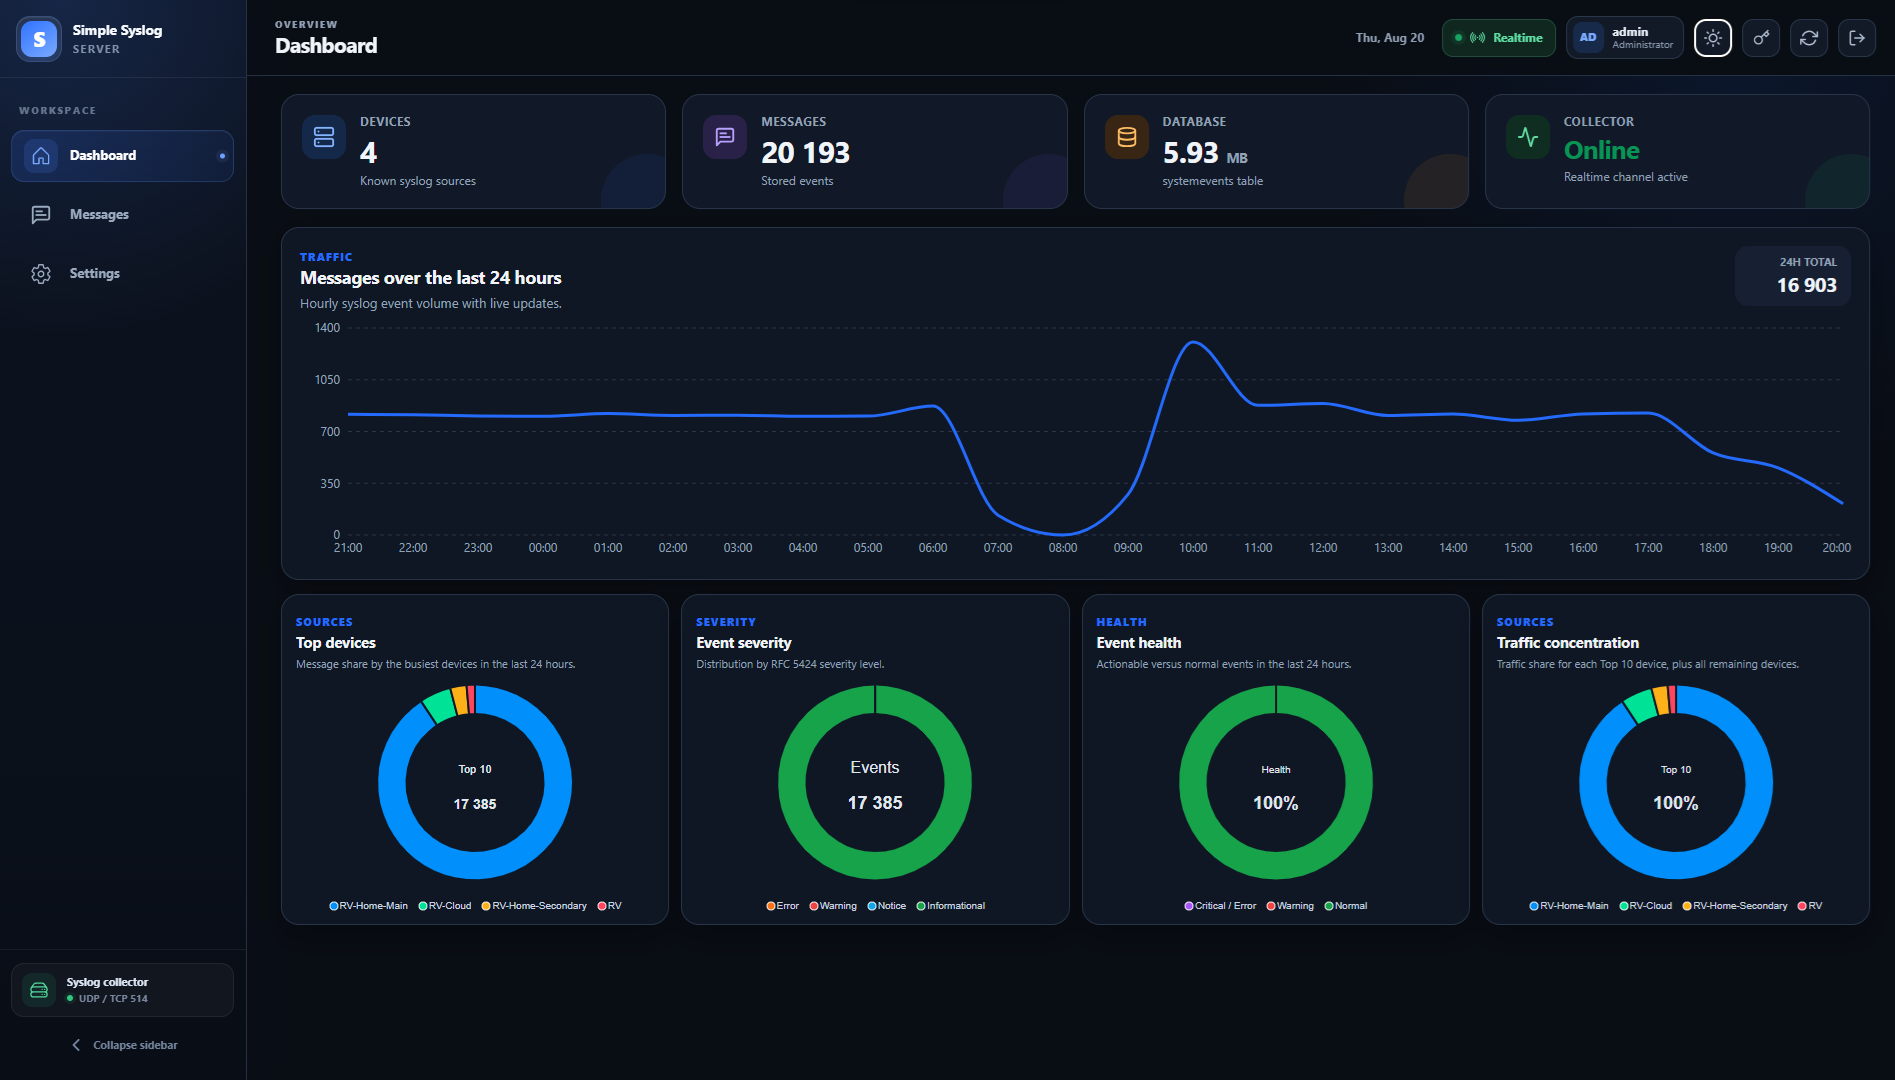
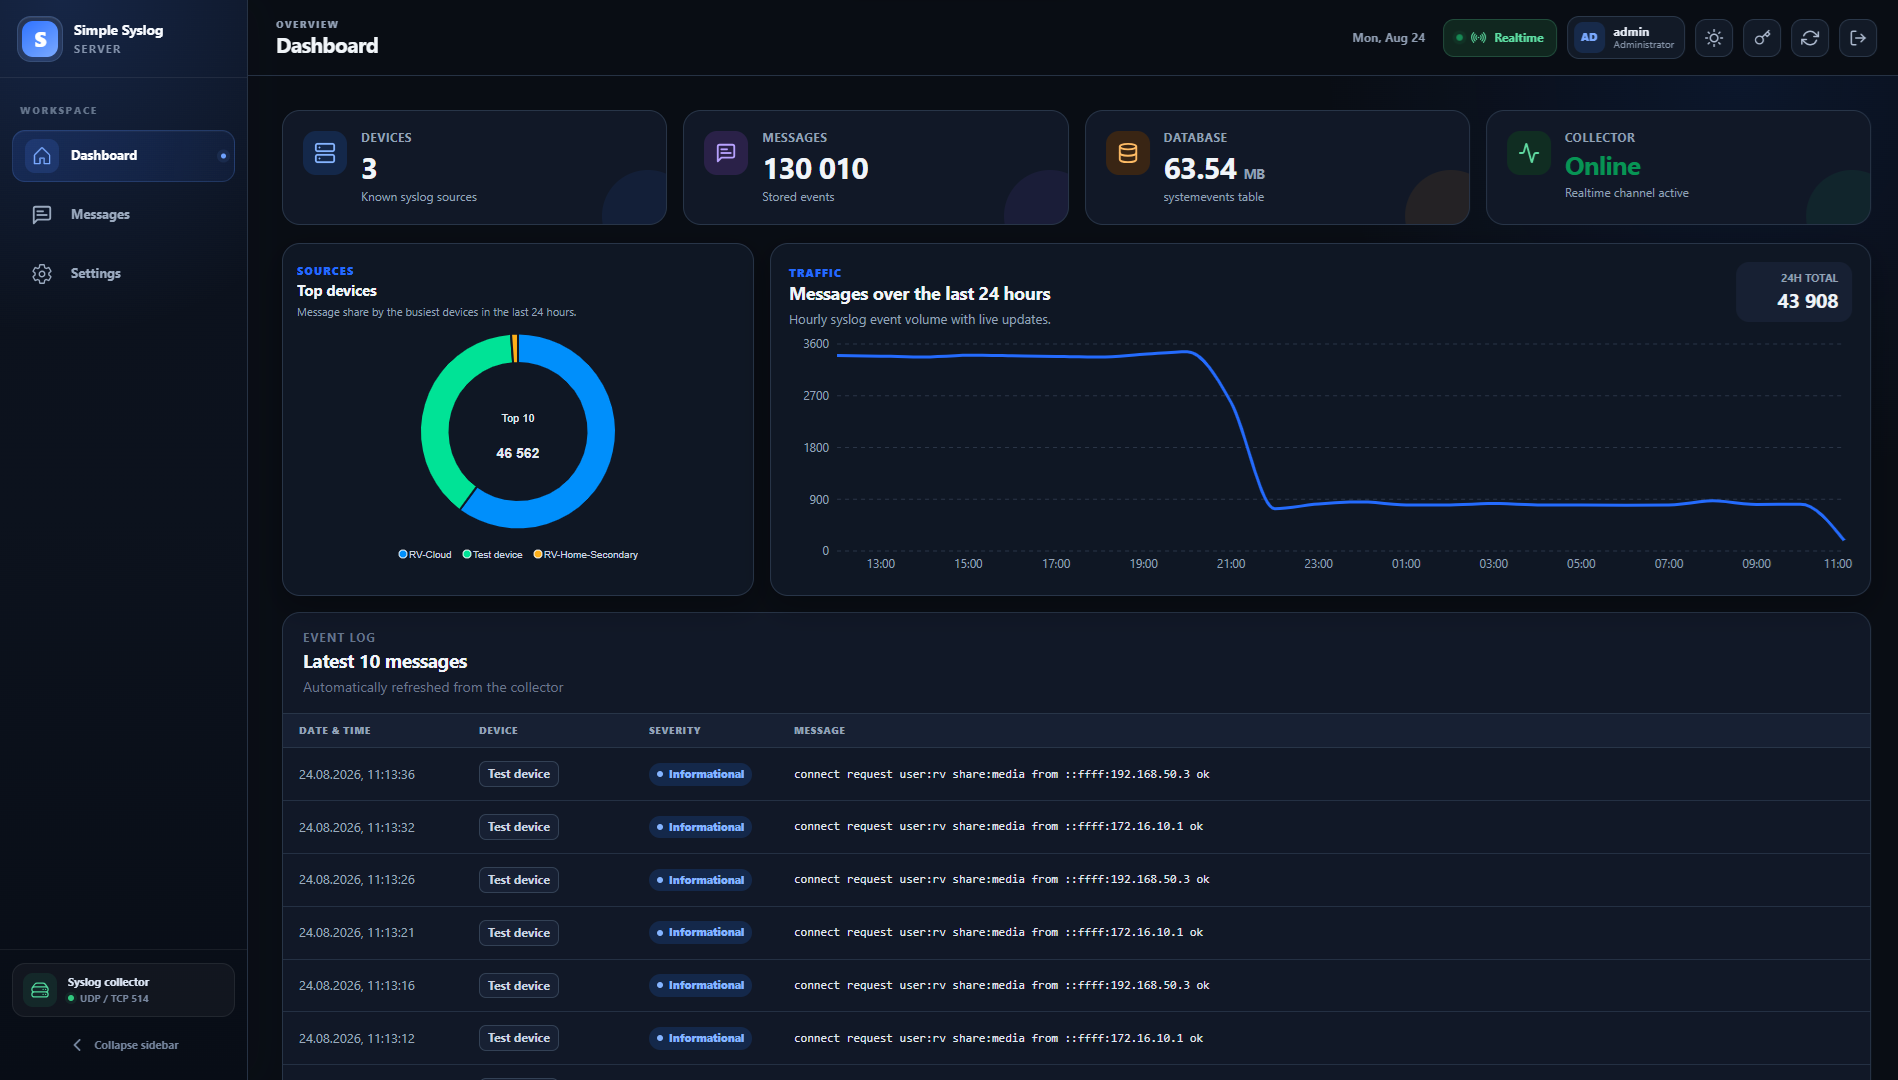
Change messages

diff --git a/frontend/src/pages/Message/Message.tsx b/frontend/src/pages/Message/Message.tsx
@@ -35,10 +35,12 @@ const severityOptions = [
 ];
 
 const cardConfig = [
-  { severity: 6, label: "Informational", icon: LuInfo, className: "info" },
-  { severity: 3, label: "Error", icon: LuCircleX, className: "error" },
-  { severity: 4, label: "Warning", icon: LuCircleAlert, className: "warning" },
-  { severity: 2, label: "Critical", icon: LuShieldAlert, className: "critical" },
+  { severities: [6, 5], label: "Informational/Notice", icon: LuInfo, className: "info" },
+  { severities: [3], label: "Error", icon: LuCircleX, className: "error" },
+  { severities: [4], label: "Warning", icon: LuCircleAlert, className: "warning" },
+  { severities: [2], label: "Critical", icon: LuShieldAlert, className: "critical" },
+  { severities: [1], label: "Alert", icon: LuCircleAlert, className: "alert" },
+  { severities: [0], label: "Emergency", icon: LuShieldAlert, className: "emergency" },
 ];
 
 
@@ -129,8 +131,12 @@ const MessagesPage = () => {
   const messages = data?.items ?? [];
   const pagination = data?.pagination ?? { page: 1, limit: 10, total: 0, totalPages: 1 };
 
-  const statCount = (severity: number) =>
-    severityStats.find((item) => item.severity === severity)?.count ?? 0;
+  const statCount = (severities: number[]) =>
+    severities.reduce(
+      (total, severity) =>
+        total + (severityStats.find((item) => item.severity === severity)?.count ?? 0),
+      0,
+    );
 
   const applyFilters = (event: FormEvent) => {
     event.preventDefault();
@@ -144,16 +150,17 @@ const MessagesPage = () => {
     }));
   };
 
-  const applySeverityCard = (severity: number) => {
+  const applySeverityCard = (severities: number[]) => {
     const now = new Date();
     const from = new Date(now.getTime() - 24 * 60 * 60 * 1000);
-    setDraftType(String(severity));
+    const typeFilter = severities.join(",");
+    setDraftType(severities.length === 1 ? String(severities[0]) : "");
     setDraftFrom("");
     setDraftTo("");
     setPage(1);
     setLimit(10);
     setFilters({
-      type: String(severity),
+      type: typeFilter,
       fromTime: from.toISOString(),
       toTime: now.toISOString(),
     });
@@ -287,18 +294,18 @@ ${result.truncated ? `<footer>Export limited to the first ${result.maxRows?.toLo
     <section className="messages-page">
       {!isFiltered && (
         <div className="severity-cards">
-          {cardConfig.map(({ severity, label, icon: Icon, className }) => (
+          {cardConfig.map(({ severities, label, icon: Icon, className }) => (
             <button
-              key={severity}
+              key={className}
               type="button"
               className={`severity-card severity-card--${className}`}
-              onClick={() => applySeverityCard(severity)}
+              onClick={() => applySeverityCard(severities)}
               title={`Show ${label.toLowerCase()} messages from the last 24 hours`}
             >
               <div className="severity-card__icon"><Icon size={22} /></div>
               <div>
                 <span className="severity-card__label">{label}</span>
-                <strong>{statCount(severity).toLocaleString()}</strong>
+                <strong>{statCount(severities).toLocaleString()}</strong>
                 <small>Last 24 hours</small>
               </div>
             </button>

diff --git a/frontend/src/pages/Message/Message.scss b/frontend/src/pages/Message/Message.scss
@@ -68,7 +68,7 @@
 
 .severity-cards {
   display: grid;
-  grid-template-columns: repeat(4, minmax(0, 1fr));
+  grid-template-columns: repeat(6, minmax(0, 1fr));
   gap: 14px;
   margin-bottom: 18px;
 }
@@ -134,10 +134,14 @@
 .severity-card--error .severity-card__icon { color: #dc2626; background: #fef2f2; }
 .severity-card--warning .severity-card__icon { color: #d97706; background: #fff7ed; }
 .severity-card--critical .severity-card__icon { color: #9333ea; background: #faf5ff; }
+.severity-card--alert .severity-card__icon { color: #c2410c; background: #fff7ed; }
+.severity-card--emergency .severity-card__icon { color: #b91c1c; background: #fef2f2; }
 .severity-card--info:hover { border-color: #bfdbfe; }
 .severity-card--error:hover { border-color: #fecaca; }
 .severity-card--warning:hover { border-color: #fed7aa; }
 .severity-card--critical:hover { border-color: #e9d5ff; }
+.severity-card--alert:hover { border-color: #fdba74; }
+.severity-card--emergency:hover { border-color: #fca5a5; }
 
 .messages-filter,
 .messages-table-card {
@@ -667,5 +671,18 @@
     .messages-table td::before {
       color: #718096;
     }
+  }
+}
+
+
+:root[data-theme="dark"] {
+  .severity-card--alert .severity-card__icon {
+    background: #2b1b12;
+    color: #fb923c;
+  }
+
+  .severity-card--emergency .severity-card__icon {
+    background: #2b1518;
+    color: #f87171;
   }
 }

diff --git a/backend/src/routes/getMessageFilter.ts b/backend/src/routes/getMessageFilter.ts
@@ -32,8 +32,18 @@ const buildWhere = ({ deviceId, type, from, to, search }: QueryFilters) => {
   }
 
   if (type !== undefined && type !== "") {
-    params.push(Number(type));
-    where.push(`(s.priority & 7) = $${params.length}`);
+    const severities = String(type)
+      .split(",")
+      .map((value) => Number(value.trim()))
+      .filter((value) => Number.isInteger(value) && value >= 0 && value <= 7);
+
+    if (severities.length === 1) {
+      params.push(severities[0]);
+      where.push(`(s.priority & 7) = $${params.length}`);
+    } else if (severities.length > 1) {
+      params.push(severities);
+      where.push(`(s.priority & 7) = ANY($${params.length}::int[])`);
+    }
   }
 
   if (from) {
